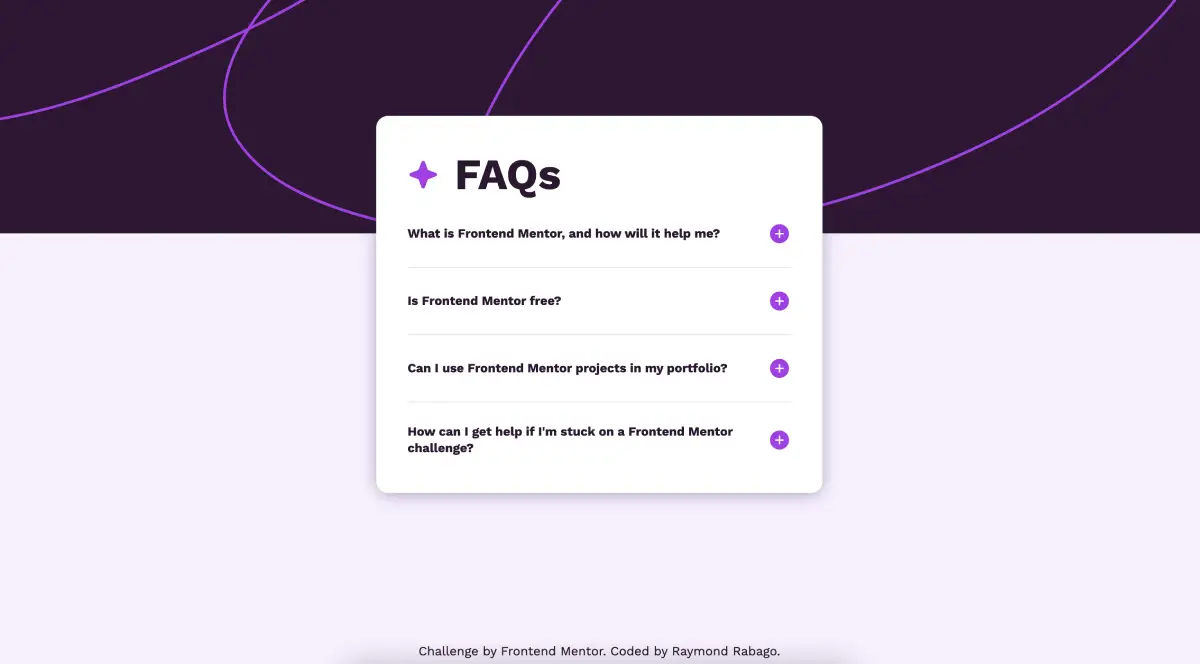
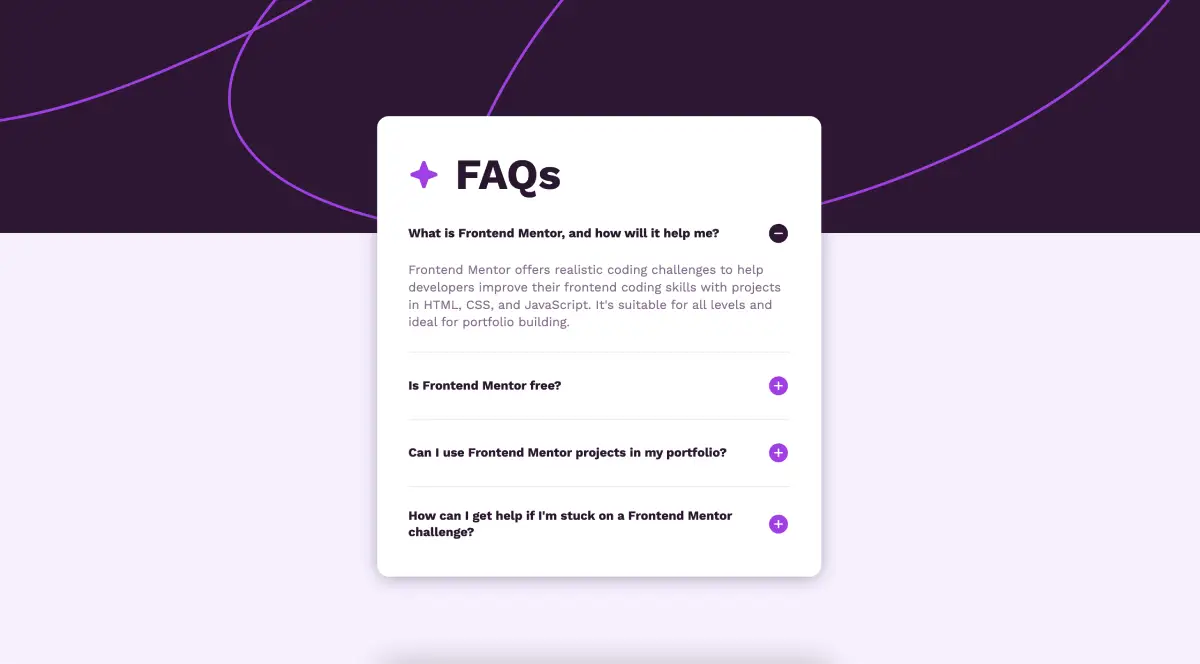
Updated the og image

diff --git a/index.html b/index.html
@@ -66,7 +66,7 @@
 
       <div class="accordions">
 
-        <article class="accordion js-accordion">
+        <article class="accordion js-accordion active">
           <button class="title" aria-expanded="false" aria-controls="accordion-content-1">
             <span>What is Frontend Mentor, and how will it help me?</span>
             <svg class="open" xmlns="http://www.w3.org/2000/svg" width="30" height="31" fill="none" viewBox="0 0 30 31"><path fill="#AD28EB" d="M15 3.313A12.187 12.187 0 1 0 27.188 15.5 12.203 12.203 0 0 0 15 3.312Zm4.688 13.124h-3.75v3.75a.938.938 0 0 1-1.876 0v-3.75h-3.75a.938.938 0 0 1 0-1.875h3.75v-3.75a.938.938 0 0 1 1.876 0v3.75h3.75a.938.938 0 0 1 0 1.876Z"/></svg>
